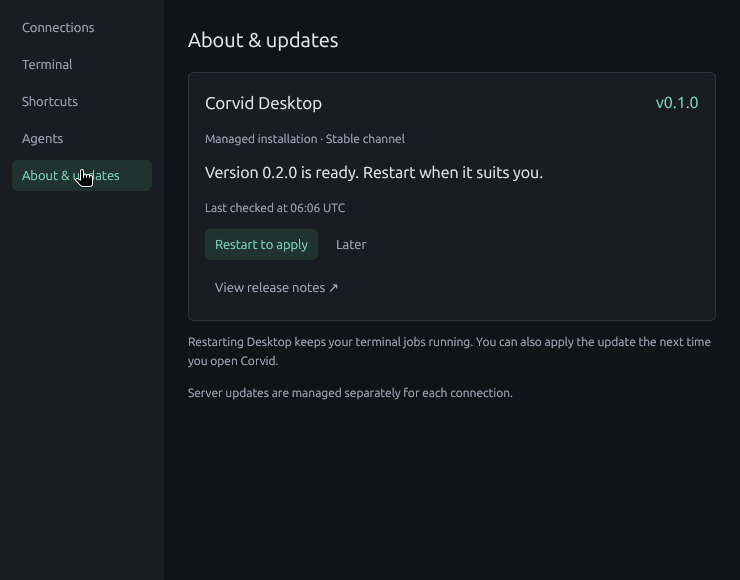
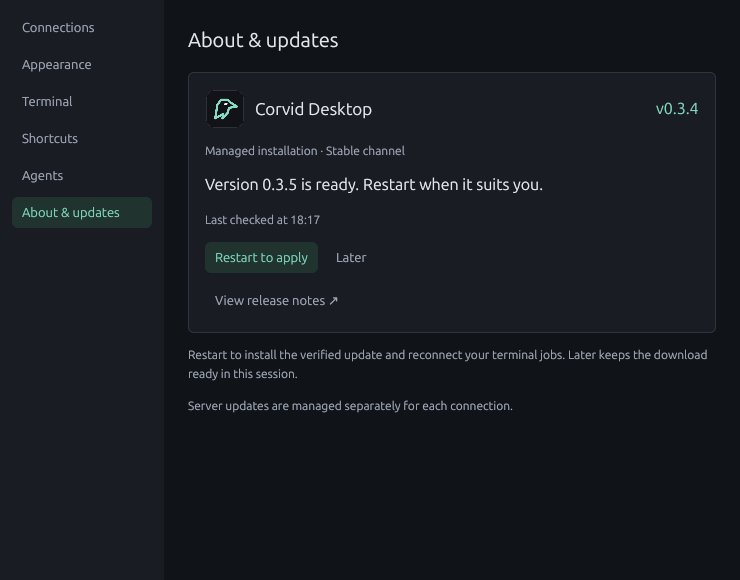
docs: show the verified Desktop update flow

diff --git a/docs/05_release_distribution.md b/docs/05_release_distribution.md
@@ -332,6 +332,15 @@ then ran the real PowerShell installer successfully with verified local assets
 and an installation path containing spaces. Desktop, updater, and CLI checks
 passed on Windows (30 tests, one WSL-profile test ignored) and Linux (49 tests),
 along with builds, Clippy, formatting, and whitespace checks.
+On 2026-11-19, a Linux Xvfb test with a local release fixture verified that
+**Later** closed Settings while the same Desktop PID and selected package stayed
+active. Reopening Settings preserved the prepared update. **Restart to apply**
+then ran the fixture installer, opened the replacement Desktop, and closed the
+previous process. The available and prepared screenshots show this test.
+An isolated Windows integration test used the published 0.3.2 and 0.3.4 runtime
+binaries. After handoff, the host ID, terminal ID, and PowerShell PID survived.
+The old package was collected after the last shell exited.
+
 On 2026-11-13, the Windows Settings screenshots above were captured using
 local release fixtures in a separate Setup installation. The app rejected a
 checksum mismatch, then verified and ran the real Setup. Restart opened the
